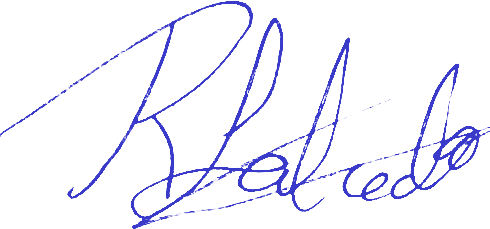
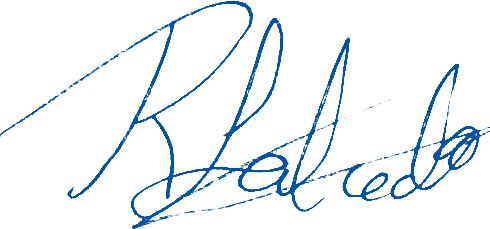
Enhance certificate layout and contact information
- Updated the CSS for the certificate to add a new .contact-info class with margin, padding, border-radius, and text alignment for better presentation.
- Modified the certificate template to simplify the contact information paragraph by removing redundant class and ensuring proper structure.
- Updated image files for branding consistency.
- Regenerated the main CSS map file to reflect the latest changes.

diff --git a/css/main.css b/css/main.css
@@ -1,1 +1,1 @@
-/*! normalize.css v3.0.0 | MIT License | git.io/normalize */html{font-family:sans-serif;-ms-text-size-adjust:100%;-webkit-text-size-adjust:100%}body{margin:0}article,aside,details,figcaption,figure,footer,header,hgroup,main,nav,section,summary{display:block}audio,canvas,progress,video{display:inline-block;vertical-align:baseline}audio:not([controls]){display:none;height:0}[hidden],template{display:none}a{background:rgba(0,0,0,0)}a:active,a:hover{outline:0}abbr[title]{border-bottom:1px dotted}b,strong{font-weight:bold}dfn{font-style:italic}h1{font-size:2em;margin:.67em 0}mark{background:#ff0;color:#000}small{font-size:80%}sub,sup{font-size:75%;line-height:0;position:relative;vertical-align:baseline}sup{top:-0.5em}sub{bottom:-0.25em}img{border:0}svg:not(:root){overflow:hidden}figure{margin:1em 40px}hr{-moz-box-sizing:content-box;box-sizing:content-box;height:0}pre{overflow:auto}code,kbd,pre,samp{font-family:monospace,monospace;font-size:1em}button,input,optgroup,select,textarea{color:inherit;font:inherit;margin:0}button{overflow:visible}button,select{text-transform:none}button,html input[type=button],input[type=reset],input[type=submit]{-webkit-appearance:button;cursor:pointer}button[disabled],html input[disabled]{cursor:default}button::-moz-focus-inner,input::-moz-focus-inner{border:0;padding:0}input{line-height:normal}input[type=checkbox],input[type=radio]{box-sizing:border-box;padding:0}input[type=number]::-webkit-inner-spin-button,input[type=number]::-webkit-outer-spin-button{height:auto}input[type=search]{-webkit-appearance:textfield;-moz-box-sizing:content-box;-webkit-box-sizing:content-box;box-sizing:content-box}input[type=search]::-webkit-search-cancel-button,input[type=search]::-webkit-search-decoration{-webkit-appearance:none}fieldset{border:1px solid silver;margin:0 2px;padding:.35em .625em .75em}legend{border:0;padding:0}textarea{overflow:auto}optgroup{font-weight:bold}table{border-collapse:collapse;border-spacing:0}td,th{padding:0}*>*{box-sizing:border-box}body{font-family:"Lato",sans-serif;font-size:18px;font-weight:400;line-height:1.6;color:#282c34}img{display:block;width:100%;height:auto}h1,h2,h3,h4{font-family:"Lato",sans-serif;color:#124b99;max-width:67ch}p,ul,ol{font-family:"Lato",sans-serif}p{margin:1rem 0;max-width:80ch}.primary-button{text-decoration:none;appearance:none;border:none;padding:.5rem 2rem;border-radius:.25rem;margin:1rem 0;background-color:#225aa5;color:#fff}.secondary-button{text-decoration:none;appearance:none;border:none;padding:.5rem 2rem;border-radius:.25rem;margin:1rem 0;background-color:#49c943;color:#fff}.animated{animation-duration:.75s;animation-fill-mode:both}@keyframes shake{from,to{transform:translate3d(0, 0, 0)}10%,30%,50%,70%,90%{transform:translate3d(-7px, 0, 0)}20%,40%,60%,80%{transform:translate3d(7px, 0, 0)}}.shake{animation-name:shake}.main-container{margin-left:auto;margin-right:auto;width:100%;max-width:1600px;padding-left:2rem;padding-right:2rem}.fill-height{min-height:54vh}.main-padding{padding-top:2rem;padding-bottom:2rem}.small-padding{padding-top:1rem;padding-bottom:1rem}.align-items-center{align-items:center}.flex-container{display:flex;gap:10px}.justify-between{justify-content:space-between}.centered-text{text-align:center}.centered-container{margin-left:auto;margin-right:auto}.margin-bottom-1{margin-bottom:1rem}.max-width-400{max-width:400px}.max-width-900{max-width:900px}.main-grid-container{display:grid;grid-template-columns:repeat(auto-fill, minmax(400px, 1fr));gap:50px}a.course-card{cursor:pointer;display:grid;grid-template-rows:1fr 320px auto;width:100%;color:#fff;text-decoration:none;box-shadow:0 0 0 rgba(40,44,52,.5);transition:all .15s ease-in-out;overflow:hidden}a.course-card:hover{box-shadow:0 5px 10px rgba(40,44,52,.5);transform:translateY(-1px)}a.course-card .course-abbr{padding:1rem 2rem;margin:0;text-align:center;background-color:#225aa5;color:#fff}a.course-card figure{margin:0;padding:0}a.course-card figure img{width:100%;height:420px;object-fit:cover;object-position:center}a.course-card .course-title{padding:1rem 2rem;background-color:#124b99}a.course-card .course-title h1,a.course-card .course-title h2,a.course-card .course-title h3,a.course-card .course-title h4{margin:0;font-size:1.5rem;font-weight:400;color:#fff}.page-navigation{display:flex;align-items:center;justify-content:center;margin:4rem 0}.page-navigation>*{display:block;padding:12px 20px}.page-navigation a{color:#fff;text-decoration:none;background:rgb(38.3567839196,101.5326633166,186.1432160804)}.page-navigation span{color:#fff;background:#225aa5}.buttons{display:flex;gap:20px;padding:1rem 0}.buttons button{text-decoration:none;appearance:none;border:none;padding:.5rem 2rem;border-radius:.25rem;margin:1rem 0;background-color:#49c943;color:#fff}.text-centered{text-align:center}form input,form textarea{padding:10px 1rem;border:1px solid rgb(166.8163265306,182.0204081633,194.1836734694);border-radius:8px;display:block;width:100%}form input[type=file]{padding:10px}form label{display:block}form button{text-decoration:none;appearance:none;border:none;padding:.5rem 2rem;border-radius:.25rem;margin:1rem 0;background-color:#225aa5;color:#fff;justify-self:start}form.one-column-margin label{margin-bottom:1rem}.thumbnail-image{width:32px;height:auto}.small-thumbnail-image{width:18px;height:auto}iframe{width:1000px;height:562.5px}span.undies{border-bottom:1px solid #282c34;font-weight:bold;padding:0 .4rem}.checkbox-grid{display:grid;grid-template-columns:20px 1fr;gap:10px;align-items:start}.checkbox-grid input[type=checkbox],.checkbox-grid input[type=radio]{width:20px;height:20px;position:relative;top:5px}@keyframes loadingSubmit{0%{background-position-x:0}100%{background-position-x:320px}}.loading-animation{pointer-events:none;opacity:.75;background:linear-gradient(to right, #124b99, #225AA5, #124b99);background-size:320px;animation-duration:1.5s;animation-fill-mode:forwards;animation-iteration-count:infinite;animation-timing-function:linear;animation-name:loadingSubmit}.disabled-button{opacity:.75;pointer-events:none;background-color:#c5cfd7;color:#282c34}.icon{width:1.5rem;height:1.5rem;display:inline-block}.save-as-pdf-pdfcrowd-button-hover{text-decoration:none;appearance:none;border:none;padding:.5rem 2rem;border-radius:.25rem;margin:1rem 0;background-color:#225aa5;color:#fff}.submitted-message{margin:2rem 0 1rem;padding:1rem;background-color:#c5cfd7;border-radius:.25rem;border:#282c34;color:#282c34}.error-message,.error-message-details{display:none;margin:2rem 0 1rem;padding:1rem;background-color:#ff5252;border-radius:.25rem;border:#bb0600;color:#fff}.success-message,.success-message-details{display:none;margin:2rem 0 1rem;padding:1rem;background-color:#49c943;border-radius:.25rem;border:rgb(34.8347107438,109.1487603306,31.3512396694);color:#fff}body.home{min-height:100vh;background-image:url("../images/ship-images-background.jpg");background-repeat:no-repeat;background-size:cover;background-position:right top}body.home .login-area{box-sizing:border-box;min-height:100vh;background-color:#225aa5;color:#fff;width:100%;max-width:420px;display:flex;flex-direction:column;justify-content:space-between;align-items:center;padding:3rem}body.home .login-area .logo{max-width:160px}form.cs-login-form{width:100%;font-size:14px;color:hsl(220,13.0434782609%,23.0392156863%)}form.cs-login-form label,form.cs-login-form input{display:block}form.cs-login-form label{color:#fff;margin:4px 0}form.cs-login-form input[type=text],form.cs-login-form input[type=password]{box-sizing:border-box;padding:.75rem .5rem;width:100%;border:1px solid hsl(220,13.0434782609%,38.0392156863%);margin-bottom:1rem}form.cs-login-form input[type=text].red-border,form.cs-login-form input[type=password].red-border{border:2px solid #bb0600}form.cs-login-form input[type=submit]{text-decoration:none;appearance:none;border:none;padding:.5rem 2rem;border-radius:.25rem;margin:1rem 0;background-color:#124b99;color:#fff;padding:.75rem .5rem;margin-top:2rem;text-transform:uppercase}.top-bar{color:#124b99;justify-content:flex-end;gap:20px;font-family:"Lato",sans-serif}.top-bar h2{margin:0}.top-bar a{font-size:.9rem;text-decoration:none;color:rgb(15.3157894737,63.8157894737,130.1842105263)}.top-image{height:160px;background-image:url(../images/background-courses.jpg);background-size:cover;background-repeat:no-repeat;background-position:top center}header{background-color:#225aa5}.search-navigation{display:flex;align-items:center;justify-content:flex-end;font-size:.9rem;position:relative}.search-navigation .logo{position:absolute;z-index:2;top:-2rem;left:2rem;width:140px;height:140px}.search-navigation .logo img{filter:drop-shadow(0 3px 9px rgba(40, 44, 52, 0.5))}form.search-form{display:flex;padding:0;margin-left:160px;border:1px solid #fff;border-radius:6px}form.search-form button.search-submit{background-color:rgba(0,0,0,0);color:#fff;padding:0 1rem;border:none;appearance:none}form.search-form input.search-field{display:block;border:none;padding:1rem;width:240px;background-color:rgba(0,0,0,0);color:#fff}form.search-form input.search-field::placeholder{color:#fff}ul.nav{list-style:none;margin:0;padding:0;display:flex;font-family:"Lato",sans-serif}ul.nav li a{display:block;text-decoration:none;padding:1.5rem;color:#fff}ul.nav li a:hover{background:rgb(32.2572864322,85.3869346734,156.5427135678)}ul.nav li.current-menu-item a{background:rgb(29.6432160804,78.4673366834,143.8567839196)}ul.nav li.logout-button a{background:#bb0600}@media screen and (max-width: 1000px){ul.nav li i._mi{margin:0;display:block}}.loader-container{position:absolute;z-index:4;top:0;left:0;bottom:0;right:0;width:100%;height:100%;min-height:100vh;display:grid;place-items:center;background:#225aa5}.loader{border-radius:50%;width:10em;height:10em}.loader:after{border-radius:50%;width:10em;height:10em}.loader{margin:60px auto;font-size:10px;position:relative;text-indent:-9999em;border-top:1.1em solid hsla(0,0%,100%,.2);border-right:1.1em solid hsla(0,0%,100%,.2);border-bottom:1.1em solid hsla(0,0%,100%,.2);border-left:1.1em solid #fff;-webkit-transform:translateZ(0);-ms-transform:translateZ(0);transform:translateZ(0);-webkit-animation:load8 1.1s infinite linear;animation:load8 1.1s infinite linear}@-webkit-keyframes load8{0%{-webkit-transform:rotate(0deg);transform:rotate(0deg)}100%{-webkit-transform:rotate(360deg);transform:rotate(360deg)}}@keyframes load8{0%{-webkit-transform:rotate(0deg);transform:rotate(0deg)}100%{-webkit-transform:rotate(360deg);transform:rotate(360deg)}}body.single-courses{display:grid;grid-template-rows:auto 1fr;min-height:100vh}.course-header{background:#225aa5;color:#fff}.course-header a.back-button{display:block;text-decoration:none;appearance:none;border:none;padding:.5rem 2rem;border-radius:.25rem;margin:1rem 0;background-color:#225aa5;color:#fff;padding:.75rem 1.25rem}.course-container{display:grid;grid-template-columns:18rem 1fr}nav.course-navigation{position:relative;z-index:2;background-color:rgb(212.0918367347,219.4897959184,225.4081632653)}nav.course-navigation a{display:block;padding:1rem 1.5rem;background-color:rgb(227.1836734694,231.9795918367,235.8163265306);color:#225aa5;text-decoration:none;display:flex;flex-wrap:nowrap;align-items:center;font-size:1rem;gap:10px}nav.course-navigation a i.fas{font-size:.8rem}nav.course-navigation a:hover{background-color:rgb(212.0918367347,219.4897959184,225.4081632653)}nav.course-navigation a.current-section{position:relative;box-shadow:-5px 2px 5px rgba(40,44,52,.15);z-index:2;background-color:#fff;border-right:none}.course-section{position:relative;z-index:1;box-shadow:-10px 0 20px rgba(40,44,52,.25)}.course-section h1{padding:2rem 4rem;margin:0;line-height:1}.course-section section{padding:0 4rem;padding-bottom:4rem;display:none}.course-section section#description{display:block}.certificate-page{background-image:url("../images/icsclass-certificate-header.png");background-repeat:no-repeat;background-position:center .25in;background-size:contain;position:relative;display:flex;flex-direction:column;max-width:8.5in;min-height:10.5in;width:100%;margin-inline:auto;padding:1.125in .75in .125in;font-size:.8rem;box-shadow:0 0 .5in -0.25in rgba(0,0,0,.5)}.certificate-page table.certificate-header{width:100%;margin-bottom:.5rem}.certificate-page table.certificate-header th,.certificate-page table.certificate-header td{text-align:center;vertical-align:middle;padding:.25rem;line-height:1.2}.certificate-page table.certificate-header th:first-child,.certificate-page table.certificate-header td:first-child{width:30%;text-align:left}.certificate-page table.certificate-header th:nth-child(2),.certificate-page table.certificate-header td:nth-child(2){width:50%}.certificate-page table.certificate-header th:last-child,.certificate-page table.certificate-header td:last-child{width:30%}.certificate-page h2,.certificate-page h1,.certificate-page p{margin:.125rem 0;line-height:1.2}.certificate-page h1,.certificate-page h2{break-after:avoid;page-break-after:avoid}.certificate-page p{max-width:none;line-height:1.5}.certificate-page hr{border:0;border-top:2px solid #282c34}.certificate-page table{width:100%;margin:.75rem 0}.certificate-page table tr{break-inside:avoid;page-break-inside:avoid}.certificate-page table th,.certificate-page table td{padding:.25rem}.certificate-page table td{border-bottom:1px solid #c5cfd7}.certificate-page table td img{margin-inline:auto;width:.125in;height:.125in}.certificate-page table thead tr{background-color:hsl(220,13.0434782609%,43.0392156863%);color:#fff;font-size:.6rem;line-height:1;text-transform:uppercase;letter-spacing:1px}.certificate-page table thead tr th:first-child{text-align:left}.certificate-icon{width:1rem;height:auto;margin-inline:auto}.certificate-footer{break-inside:avoid;page-break-inside:avoid;margin-top:auto;padding-top:1in}.issue-date{display:grid;gap:1rem;grid-template-columns:3fr 1fr;align-items:center;break-inside:avoid;page-break-inside:avoid}.issue-date p{max-width:40ch}.date p{margin:0;text-align:center;line-height:1.1}.signature-seal{display:flex;gap:1rem;break-inside:avoid;page-break-inside:avoid}.signature{background-repeat:no-repeat;background-position:center 10px;padding-top:4rem;width:225px;margin-left:auto;text-align:center;position:relative;break-inside:avoid;page-break-inside:avoid}.signature img{height:5rem;width:auto;position:absolute;top:0;left:1rem;mix-blend-mode:multiply;z-index:-1}.signature p{line-height:1}.sello{display:block;width:120px;height:120px;opacity:.75}.profile-tabs button{padding:.5rem 3rem;margin:0;-moz-appearance:none;-webkit-appearance:none;background:rgb(227.1836734694,231.9795918367,235.8163265306);border:1px solid rgb(181.9081632653,194.5102040816,204.5918367347);outline:0;position:relative;top:1px}.profile-tabs button.current-tab{background:#fff;border-bottom:1px solid #fff}.profile-tabs button:first-child{border-top-left-radius:8px}.profile-tabs button:last-child{border-top-right-radius:8px}.profile-tabs-body{padding:2rem 4rem;border:1px solid rgb(181.9081632653,194.5102040816,204.5918367347);border-radius:0 8px 8px 8px}.profile-tabs-body>div{display:none}.profile-tabs-body .current-section{display:block}footer{background-color:#225aa5;padding:3rem 0;position:relative;bottom:0}.footer-notice{text-align:center}.footer-notice p{margin:0 auto;max-width:700px}.copyright{color:#fff;font-size:.9rem}.copyright a{color:#fff;font-style:italic}@media print{.top-bar,header,.top-image,footer,.not-for-print{display:none}.certificate-page{background-image:url("../images/icsclass-certificate-header.png");background-repeat:no-repeat;background-position:center top;background-size:contain}.certificate-page h2{margin-top:5rem}}/*# sourceMappingURL=main.css.map */
+/*! normalize.css v3.0.0 | MIT License | git.io/normalize */html{font-family:sans-serif;-ms-text-size-adjust:100%;-webkit-text-size-adjust:100%}body{margin:0}article,aside,details,figcaption,figure,footer,header,hgroup,main,nav,section,summary{display:block}audio,canvas,progress,video{display:inline-block;vertical-align:baseline}audio:not([controls]){display:none;height:0}[hidden],template{display:none}a{background:rgba(0,0,0,0)}a:active,a:hover{outline:0}abbr[title]{border-bottom:1px dotted}b,strong{font-weight:bold}dfn{font-style:italic}h1{font-size:2em;margin:.67em 0}mark{background:#ff0;color:#000}small{font-size:80%}sub,sup{font-size:75%;line-height:0;position:relative;vertical-align:baseline}sup{top:-0.5em}sub{bottom:-0.25em}img{border:0}svg:not(:root){overflow:hidden}figure{margin:1em 40px}hr{-moz-box-sizing:content-box;box-sizing:content-box;height:0}pre{overflow:auto}code,kbd,pre,samp{font-family:monospace,monospace;font-size:1em}button,input,optgroup,select,textarea{color:inherit;font:inherit;margin:0}button{overflow:visible}button,select{text-transform:none}button,html input[type=button],input[type=reset],input[type=submit]{-webkit-appearance:button;cursor:pointer}button[disabled],html input[disabled]{cursor:default}button::-moz-focus-inner,input::-moz-focus-inner{border:0;padding:0}input{line-height:normal}input[type=checkbox],input[type=radio]{box-sizing:border-box;padding:0}input[type=number]::-webkit-inner-spin-button,input[type=number]::-webkit-outer-spin-button{height:auto}input[type=search]{-webkit-appearance:textfield;-moz-box-sizing:content-box;-webkit-box-sizing:content-box;box-sizing:content-box}input[type=search]::-webkit-search-cancel-button,input[type=search]::-webkit-search-decoration{-webkit-appearance:none}fieldset{border:1px solid silver;margin:0 2px;padding:.35em .625em .75em}legend{border:0;padding:0}textarea{overflow:auto}optgroup{font-weight:bold}table{border-collapse:collapse;border-spacing:0}td,th{padding:0}*>*{box-sizing:border-box}body{font-family:"Lato",sans-serif;font-size:18px;font-weight:400;line-height:1.6;color:#282c34}img{display:block;width:100%;height:auto}h1,h2,h3,h4{font-family:"Lato",sans-serif;color:#124b99;max-width:67ch}p,ul,ol{font-family:"Lato",sans-serif}p{margin:1rem 0;max-width:80ch}.primary-button{text-decoration:none;appearance:none;border:none;padding:.5rem 2rem;border-radius:.25rem;margin:1rem 0;background-color:#225aa5;color:#fff}.secondary-button{text-decoration:none;appearance:none;border:none;padding:.5rem 2rem;border-radius:.25rem;margin:1rem 0;background-color:#49c943;color:#fff}.animated{animation-duration:.75s;animation-fill-mode:both}@keyframes shake{from,to{transform:translate3d(0, 0, 0)}10%,30%,50%,70%,90%{transform:translate3d(-7px, 0, 0)}20%,40%,60%,80%{transform:translate3d(7px, 0, 0)}}.shake{animation-name:shake}.main-container{margin-left:auto;margin-right:auto;width:100%;max-width:1600px;padding-left:2rem;padding-right:2rem}.fill-height{min-height:54vh}.main-padding{padding-top:2rem;padding-bottom:2rem}.small-padding{padding-top:1rem;padding-bottom:1rem}.align-items-center{align-items:center}.flex-container{display:flex;gap:10px}.justify-between{justify-content:space-between}.centered-text{text-align:center}.centered-container{margin-left:auto;margin-right:auto}.margin-bottom-1{margin-bottom:1rem}.max-width-400{max-width:400px}.max-width-900{max-width:900px}.main-grid-container{display:grid;grid-template-columns:repeat(auto-fill, minmax(400px, 1fr));gap:50px}a.course-card{cursor:pointer;display:grid;grid-template-rows:1fr 320px auto;width:100%;color:#fff;text-decoration:none;box-shadow:0 0 0 rgba(40,44,52,.5);transition:all .15s ease-in-out;overflow:hidden}a.course-card:hover{box-shadow:0 5px 10px rgba(40,44,52,.5);transform:translateY(-1px)}a.course-card .course-abbr{padding:1rem 2rem;margin:0;text-align:center;background-color:#225aa5;color:#fff}a.course-card figure{margin:0;padding:0}a.course-card figure img{width:100%;height:420px;object-fit:cover;object-position:center}a.course-card .course-title{padding:1rem 2rem;background-color:#124b99}a.course-card .course-title h1,a.course-card .course-title h2,a.course-card .course-title h3,a.course-card .course-title h4{margin:0;font-size:1.5rem;font-weight:400;color:#fff}.page-navigation{display:flex;align-items:center;justify-content:center;margin:4rem 0}.page-navigation>*{display:block;padding:12px 20px}.page-navigation a{color:#fff;text-decoration:none;background:rgb(38.3567839196,101.5326633166,186.1432160804)}.page-navigation span{color:#fff;background:#225aa5}.buttons{display:flex;gap:20px;padding:1rem 0}.buttons button{text-decoration:none;appearance:none;border:none;padding:.5rem 2rem;border-radius:.25rem;margin:1rem 0;background-color:#49c943;color:#fff}.text-centered{text-align:center}form input,form textarea{padding:10px 1rem;border:1px solid rgb(166.8163265306,182.0204081633,194.1836734694);border-radius:8px;display:block;width:100%}form input[type=file]{padding:10px}form label{display:block}form button{text-decoration:none;appearance:none;border:none;padding:.5rem 2rem;border-radius:.25rem;margin:1rem 0;background-color:#225aa5;color:#fff;justify-self:start}form.one-column-margin label{margin-bottom:1rem}.thumbnail-image{width:32px;height:auto}.small-thumbnail-image{width:18px;height:auto}iframe{width:1000px;height:562.5px}span.undies{border-bottom:1px solid #282c34;font-weight:bold;padding:0 .4rem}.checkbox-grid{display:grid;grid-template-columns:20px 1fr;gap:10px;align-items:start}.checkbox-grid input[type=checkbox],.checkbox-grid input[type=radio]{width:20px;height:20px;position:relative;top:5px}@keyframes loadingSubmit{0%{background-position-x:0}100%{background-position-x:320px}}.loading-animation{pointer-events:none;opacity:.75;background:linear-gradient(to right, #124b99, #225AA5, #124b99);background-size:320px;animation-duration:1.5s;animation-fill-mode:forwards;animation-iteration-count:infinite;animation-timing-function:linear;animation-name:loadingSubmit}.disabled-button{opacity:.75;pointer-events:none;background-color:#c5cfd7;color:#282c34}.icon{width:1.5rem;height:1.5rem;display:inline-block}.save-as-pdf-pdfcrowd-button-hover{text-decoration:none;appearance:none;border:none;padding:.5rem 2rem;border-radius:.25rem;margin:1rem 0;background-color:#225aa5;color:#fff}.submitted-message{margin:2rem 0 1rem;padding:1rem;background-color:#c5cfd7;border-radius:.25rem;border:#282c34;color:#282c34}.error-message,.error-message-details{display:none;margin:2rem 0 1rem;padding:1rem;background-color:#ff5252;border-radius:.25rem;border:#bb0600;color:#fff}.success-message,.success-message-details{display:none;margin:2rem 0 1rem;padding:1rem;background-color:#49c943;border-radius:.25rem;border:rgb(34.8347107438,109.1487603306,31.3512396694);color:#fff}body.home{min-height:100vh;background-image:url("../images/ship-images-background.jpg");background-repeat:no-repeat;background-size:cover;background-position:right top}body.home .login-area{box-sizing:border-box;min-height:100vh;background-color:#225aa5;color:#fff;width:100%;max-width:420px;display:flex;flex-direction:column;justify-content:space-between;align-items:center;padding:3rem}body.home .login-area .logo{max-width:160px}form.cs-login-form{width:100%;font-size:14px;color:hsl(220,13.0434782609%,23.0392156863%)}form.cs-login-form label,form.cs-login-form input{display:block}form.cs-login-form label{color:#fff;margin:4px 0}form.cs-login-form input[type=text],form.cs-login-form input[type=password]{box-sizing:border-box;padding:.75rem .5rem;width:100%;border:1px solid hsl(220,13.0434782609%,38.0392156863%);margin-bottom:1rem}form.cs-login-form input[type=text].red-border,form.cs-login-form input[type=password].red-border{border:2px solid #bb0600}form.cs-login-form input[type=submit]{text-decoration:none;appearance:none;border:none;padding:.5rem 2rem;border-radius:.25rem;margin:1rem 0;background-color:#124b99;color:#fff;padding:.75rem .5rem;margin-top:2rem;text-transform:uppercase}.top-bar{color:#124b99;justify-content:flex-end;gap:20px;font-family:"Lato",sans-serif}.top-bar h2{margin:0}.top-bar a{font-size:.9rem;text-decoration:none;color:rgb(15.3157894737,63.8157894737,130.1842105263)}.top-image{height:160px;background-image:url(../images/background-courses.jpg);background-size:cover;background-repeat:no-repeat;background-position:top center}header{background-color:#225aa5}.search-navigation{display:flex;align-items:center;justify-content:flex-end;font-size:.9rem;position:relative}.search-navigation .logo{position:absolute;z-index:2;top:-2rem;left:2rem;width:140px;height:140px}.search-navigation .logo img{filter:drop-shadow(0 3px 9px rgba(40, 44, 52, 0.5))}form.search-form{display:flex;padding:0;margin-left:160px;border:1px solid #fff;border-radius:6px}form.search-form button.search-submit{background-color:rgba(0,0,0,0);color:#fff;padding:0 1rem;border:none;appearance:none}form.search-form input.search-field{display:block;border:none;padding:1rem;width:240px;background-color:rgba(0,0,0,0);color:#fff}form.search-form input.search-field::placeholder{color:#fff}ul.nav{list-style:none;margin:0;padding:0;display:flex;font-family:"Lato",sans-serif}ul.nav li a{display:block;text-decoration:none;padding:1.5rem;color:#fff}ul.nav li a:hover{background:rgb(32.2572864322,85.3869346734,156.5427135678)}ul.nav li.current-menu-item a{background:rgb(29.6432160804,78.4673366834,143.8567839196)}ul.nav li.logout-button a{background:#bb0600}@media screen and (max-width: 1000px){ul.nav li i._mi{margin:0;display:block}}.loader-container{position:absolute;z-index:4;top:0;left:0;bottom:0;right:0;width:100%;height:100%;min-height:100vh;display:grid;place-items:center;background:#225aa5}.loader{border-radius:50%;width:10em;height:10em}.loader:after{border-radius:50%;width:10em;height:10em}.loader{margin:60px auto;font-size:10px;position:relative;text-indent:-9999em;border-top:1.1em solid hsla(0,0%,100%,.2);border-right:1.1em solid hsla(0,0%,100%,.2);border-bottom:1.1em solid hsla(0,0%,100%,.2);border-left:1.1em solid #fff;-webkit-transform:translateZ(0);-ms-transform:translateZ(0);transform:translateZ(0);-webkit-animation:load8 1.1s infinite linear;animation:load8 1.1s infinite linear}@-webkit-keyframes load8{0%{-webkit-transform:rotate(0deg);transform:rotate(0deg)}100%{-webkit-transform:rotate(360deg);transform:rotate(360deg)}}@keyframes load8{0%{-webkit-transform:rotate(0deg);transform:rotate(0deg)}100%{-webkit-transform:rotate(360deg);transform:rotate(360deg)}}body.single-courses{display:grid;grid-template-rows:auto 1fr;min-height:100vh}.course-header{background:#225aa5;color:#fff}.course-header a.back-button{display:block;text-decoration:none;appearance:none;border:none;padding:.5rem 2rem;border-radius:.25rem;margin:1rem 0;background-color:#225aa5;color:#fff;padding:.75rem 1.25rem}.course-container{display:grid;grid-template-columns:18rem 1fr}nav.course-navigation{position:relative;z-index:2;background-color:rgb(212.0918367347,219.4897959184,225.4081632653)}nav.course-navigation a{display:block;padding:1rem 1.5rem;background-color:rgb(227.1836734694,231.9795918367,235.8163265306);color:#225aa5;text-decoration:none;display:flex;flex-wrap:nowrap;align-items:center;font-size:1rem;gap:10px}nav.course-navigation a i.fas{font-size:.8rem}nav.course-navigation a:hover{background-color:rgb(212.0918367347,219.4897959184,225.4081632653)}nav.course-navigation a.current-section{position:relative;box-shadow:-5px 2px 5px rgba(40,44,52,.15);z-index:2;background-color:#fff;border-right:none}.course-section{position:relative;z-index:1;box-shadow:-10px 0 20px rgba(40,44,52,.25)}.course-section h1{padding:2rem 4rem;margin:0;line-height:1}.course-section section{padding:0 4rem;padding-bottom:4rem;display:none}.course-section section#description{display:block}.certificate-page{background-image:url("../images/icsclass-certificate-header.png");background-repeat:no-repeat;background-position:center .25in;background-size:contain;position:relative;display:flex;flex-direction:column;max-width:8.5in;min-height:10.5in;width:100%;margin-inline:auto;padding:1.125in .75in .125in;font-size:.8rem;box-shadow:0 0 .5in -0.25in rgba(0,0,0,.5)}.certificate-page table.certificate-header{width:100%;margin-bottom:.5rem}.certificate-page table.certificate-header th,.certificate-page table.certificate-header td{text-align:center;vertical-align:middle;padding:.25rem;line-height:1.2}.certificate-page table.certificate-header th:first-child,.certificate-page table.certificate-header td:first-child{width:30%;text-align:left}.certificate-page table.certificate-header th:nth-child(2),.certificate-page table.certificate-header td:nth-child(2){width:50%}.certificate-page table.certificate-header th:last-child,.certificate-page table.certificate-header td:last-child{width:30%}.certificate-page h2,.certificate-page h1,.certificate-page p{margin:.125rem 0;line-height:1.2}.certificate-page h1,.certificate-page h2{break-after:avoid;page-break-after:avoid}.certificate-page p{max-width:none;line-height:1.5}.certificate-page hr{border:0;border-top:2px solid #282c34}.certificate-page table{width:100%;margin:.75rem 0}.certificate-page table tr{break-inside:avoid;page-break-inside:avoid}.certificate-page table th,.certificate-page table td{padding:.25rem}.certificate-page table td{border-bottom:1px solid #c5cfd7}.certificate-page table td img{margin-inline:auto;width:.125in;height:.125in}.certificate-page table thead tr{background-color:hsl(220,13.0434782609%,43.0392156863%);color:#fff;font-size:.6rem;line-height:1;text-transform:uppercase;letter-spacing:1px}.certificate-page table thead tr th:first-child{text-align:left}.certificate-icon{width:1rem;height:auto;margin-inline:auto}.certificate-footer{break-inside:avoid;page-break-inside:avoid;margin-top:auto;padding-top:1in}.issue-date{display:grid;gap:1rem;grid-template-columns:3fr 1fr;align-items:center;break-inside:avoid;page-break-inside:avoid}.issue-date p{max-width:40ch}.date p{margin:0;text-align:center;line-height:1.1}.signature-seal{display:flex;gap:1rem;break-inside:avoid;page-break-inside:avoid}.signature{background-repeat:no-repeat;background-position:center 10px;padding-top:4rem;width:225px;margin-left:auto;text-align:center;position:relative;break-inside:avoid;page-break-inside:avoid}.signature img{height:5rem;width:auto;position:absolute;top:0;left:1rem;mix-blend-mode:multiply;z-index:-1}.signature p{line-height:1}.sello{display:block;width:120px;height:120px;opacity:.75}.contact-info{margin-top:1rem;padding:.25rem .5rem;border-radius:.25rem;text-align:center}.profile-tabs button{padding:.5rem 3rem;margin:0;-moz-appearance:none;-webkit-appearance:none;background:rgb(227.1836734694,231.9795918367,235.8163265306);border:1px solid rgb(181.9081632653,194.5102040816,204.5918367347);outline:0;position:relative;top:1px}.profile-tabs button.current-tab{background:#fff;border-bottom:1px solid #fff}.profile-tabs button:first-child{border-top-left-radius:8px}.profile-tabs button:last-child{border-top-right-radius:8px}.profile-tabs-body{padding:2rem 4rem;border:1px solid rgb(181.9081632653,194.5102040816,204.5918367347);border-radius:0 8px 8px 8px}.profile-tabs-body>div{display:none}.profile-tabs-body .current-section{display:block}footer{background-color:#225aa5;padding:3rem 0;position:relative;bottom:0}.footer-notice{text-align:center}.footer-notice p{margin:0 auto;max-width:700px}.copyright{color:#fff;font-size:.9rem}.copyright a{color:#fff;font-style:italic}@media print{.top-bar,header,.top-image,footer,.not-for-print{display:none}.certificate-page{background-image:url("../images/icsclass-certificate-header.png");background-repeat:no-repeat;background-position:center top;background-size:contain}.certificate-page h2{margin-top:5rem}}/*# sourceMappingURL=main.css.map */

diff --git a/sass/_certificate.sass b/sass/_certificate.sass
@@ -144,3 +144,9 @@ $padding-bottom: 0.125in
   width: 120px
   height: 120px
   opacity: 0.75
+
+.contact-info
+  margin-top: 1rem
+  padding: 0.25rem 0.5rem
+  border-radius: 0.25rem
+  text-align: center

diff --git a/templates/certificate.php b/templates/certificate.php
@@ -95,7 +95,7 @@
       <img class="sello" src="<?php echo IMAGESPATH . '/icsclass-logo-sello.png'; ?>" alt="Sello seco ICSClass">
     </div>
     <div class="contact-info">
-      <p class="contact-info">
+      <p>
         To verify this certificate please contact ICSClass Head Office at <a href="mailto:info@intermaritime.org">info@intermaritime.org</a> or to <a href="mailto:ruben@intermaritime.org">ruben@intermaritime.org</a>.
       </p>
     </div>
